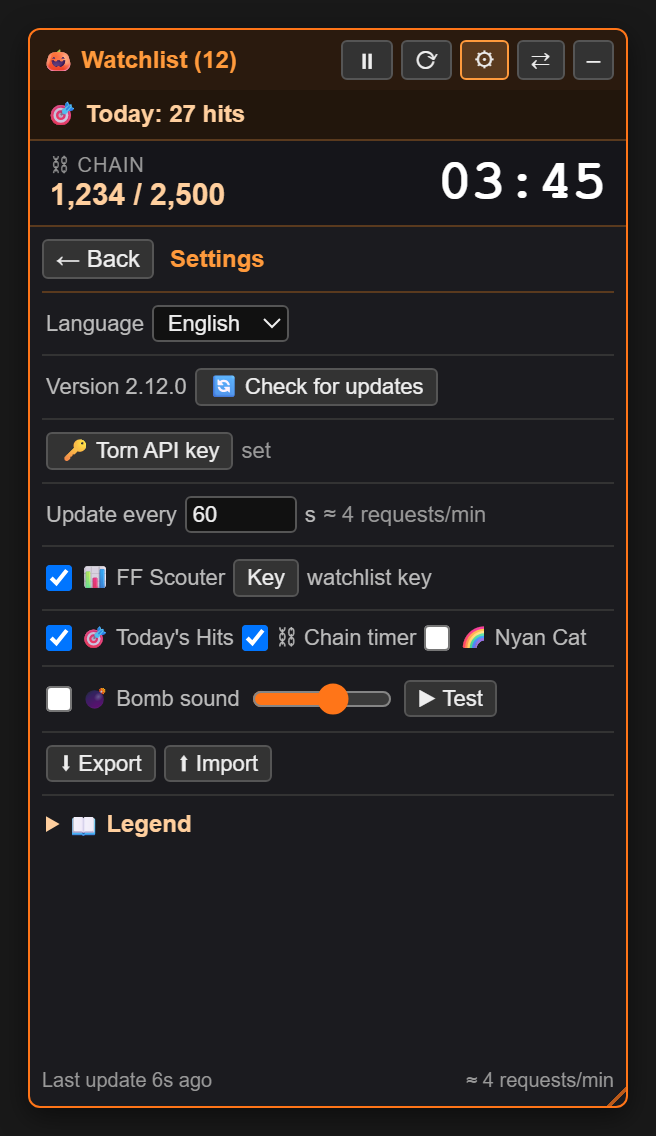
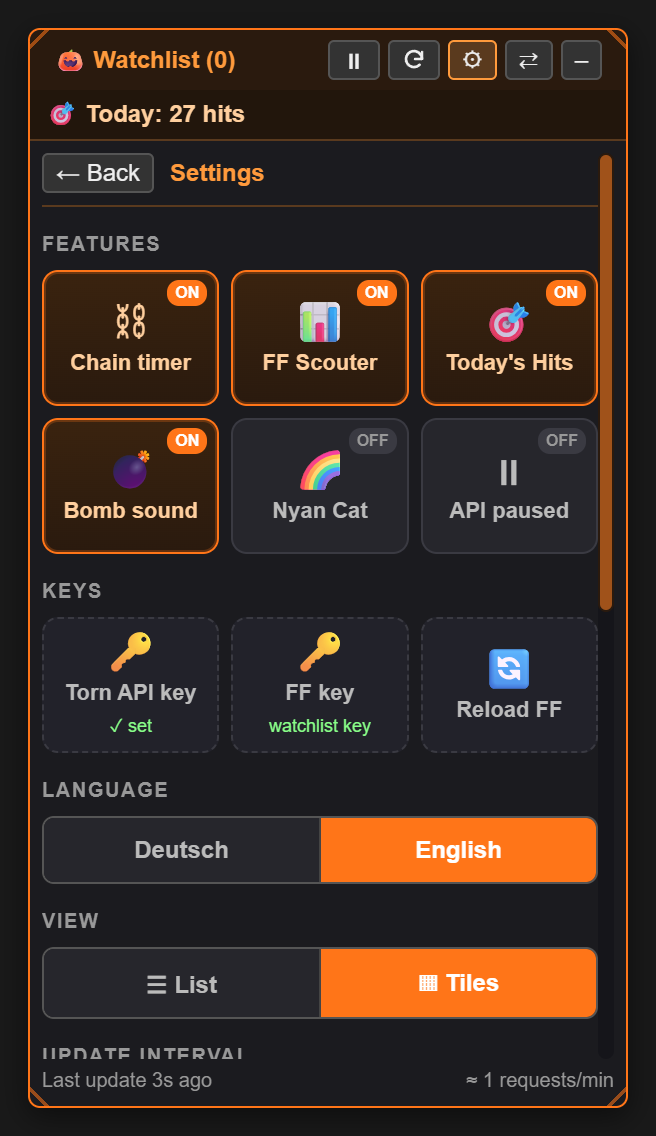
Tile grid settings page on the PC too (2.19.0)
Hover effects and tooltips for mouse users, new settings screenshot.

diff --git a/torn-war-watchlist.user.js b/torn-war-watchlist.user.js
@@ -1,7 +1,7 @@
 // ==UserScript==
 // @name         Torn War Watchlist
 // @namespace    torn-war-watchlist
-// @version      2.18.1
+// @version      2.19.0
 // @description  Ranked war watchlist for Torn: players and whole factions, hospital countdown, last-action colors, FF Scouter, chain timer
 // @author       Provadis
 // @homepageURL  https://github.com/Provadis/torn-war-watchlist
@@ -114,6 +114,11 @@
       tileApiKey: 'Torn API-Key',
       tileFfKey: 'FF-Key',
       tileFfReload: 'FF neu laden',
+      chainTip: 'Chain-Zähler und Timer im Panel, unter 1:30 rot blinkend',
+      ffTip: 'Fair-Fight-Werte von ffscouter.com neben jedem Spieler',
+      hitsTip: 'Leiste mit deinen erfolgreichen Angriffen seit 00:00 TCT',
+      nyanTip: 'Ab und zu läuft Nyan Cat am Rahmen entlang',
+      pauseTip: 'Keine automatischen API-Abfragen, solange an',
       customInterval: (s) => `eigener Wert: ${s} s`,
       version: (v) => `Version ${v}`,
       checkUpdates: '🔄 Nach Updates suchen',
@@ -265,6 +270,11 @@
       tileApiKey: 'Torn API key',
       tileFfKey: 'FF key',
       tileFfReload: 'Reload FF',
+      chainTip: 'Chain count and timer in the panel, blinks red below 1:30',
+      ffTip: 'Fair fight values from ffscouter.com next to every player',
+      hitsTip: 'Strip with your successful attacks since 00:00 TCT',
+      nyanTip: 'Every now and then Nyan Cat runs along the border',
+      pauseTip: 'No automatic API requests while on',
       customInterval: (s) => `custom value: ${s} s`,
       version: (v) => `Version ${v}`,
       checkUpdates: '🔄 Check for updates',
@@ -1063,9 +1073,8 @@
     #twl-nyan-trail { position: fixed; left: 0; top: 0; z-index: 1000000; pointer-events: none; display: none; }
     #twl-nyan-trail .twl-rb { position: absolute; left: 0; top: 0; width: 5px; height: 15px; will-change: transform, opacity;
       background: linear-gradient(#ff0000 0 16.66%, #ff9900 0 33.33%, #ffff00 0 50%, #33ff00 0 66.66%, #0099ff 0 83.33%, #6633ff 0); }
-    /* Touch settings: grid of tiles instead of checkbox rows (desktop keeps the rows) */
-    #twl-panel:not(.twl-touch) .twl-sgrid, #twl-panel:not(.twl-touch) .twl-touch-only,
-    #twl-panel.twl-touch .twl-s-old { display: none; }
+    /* Settings: grid of tiles. The old checkbox rows stay hidden in the page – the tiles drive them */
+    #twl-panel .twl-s-old { display: none; }
     .twl-sec { margin: 12px 0 6px; color: #999; font-size: 10px; text-transform: uppercase; letter-spacing: .8px; font-weight: bold; }
     .twl-tiles { display: grid; grid-template-columns: repeat(3, 1fr); gap: 6px; }
     .twl-tiles.twl-tiles-2 { grid-template-columns: repeat(2, 1fr); }
@@ -1074,6 +1083,11 @@
       align-items: center; justify-content: center; gap: 4px; text-align: center; font: inherit;
       -webkit-tap-highlight-color: transparent; touch-action: manipulation; }
     #twl-panel button.twl-tile:active { transform: scale(.96); }
+    @media (hover: hover) {
+      #twl-panel button.twl-tile:hover:not(:disabled) { border-color: #6a6a74; filter: brightness(1.12); }
+      #twl-panel button.twl-tile.twl-on:hover { border-color: #ff9a3c; }
+      #twl-panel .twl-seg button:not(.twl-on):hover { background: #303038; color: #eee; }
+    }
     #twl-panel button.twl-tile:disabled { opacity: .45; }
     .twl-tile .twl-ic { font-size: 20px; line-height: 1; }
     .twl-tile .twl-lb { font-size: 11px; font-weight: bold; line-height: 1.15; }
@@ -1096,22 +1110,22 @@
       background: #26262c; border: 1px solid #3a3a42; }
     #twl-panel .twl-vol input { flex: 1; min-width: 0; accent-color: #ff7518; }
     #twl-panel .twl-vol button { padding: 6px 10px; font-weight: bold; }
-    #twl-panel.twl-touch .twl-s-ver { display: flex; flex-wrap: wrap; gap: 6px; margin: 0; padding: 0; border: 0; }
-    #twl-panel.twl-touch .twl-s-ver .twl-version, #twl-panel.twl-touch .twl-s-ver .twl-upd-status {
+    #twl-panel .twl-s-ver { display: flex; flex-wrap: wrap; gap: 6px; margin: 0; padding: 0; border: 0; }
+    #twl-panel .twl-s-ver .twl-version, #twl-panel .twl-s-ver .twl-upd-status {
       display: flex; align-items: center; min-height: 40px; padding: 0 12px; border-radius: 8px 0 0 8px;
       background: #26262c; border: 1px solid #3a3a42; border-right: 0; color: #ddd; font-size: 13px; font-weight: bold; }
-    #twl-panel.twl-touch .twl-s-ver .twl-version { flex: 1; }
-    #twl-panel.twl-touch .twl-s-ver .twl-upd-status { order: 1; margin-left: -6px; border-radius: 0 8px 8px 0;
+    #twl-panel .twl-s-ver .twl-version { flex: 1; }
+    #twl-panel .twl-s-ver .twl-upd-status { order: 1; margin-left: -6px; border-radius: 0 8px 8px 0;
       border-left: 0; border-right: 1px solid #3a3a42; font-size: 11px; font-weight: normal; color: #8f8; }
-    #twl-panel.twl-touch .twl-s-ver .twl-upd-status:empty { padding: 0 6px; }
-    #twl-panel.twl-touch .twl-s-ver .twl-upd-status.twl-upd-new { color: #ff9a3c; font-weight: bold; }
-    #twl-panel.twl-touch .twl-s-ver .twl-upd-status.twl-ff-err { color: #ff8080; }
-    #twl-panel.twl-touch .twl-s-ver [data-act="update-check"] { order: 2; flex-basis: 100%; min-height: 40px;
+    #twl-panel .twl-s-ver .twl-upd-status:empty { padding: 0 6px; }
+    #twl-panel .twl-s-ver .twl-upd-status.twl-upd-new { color: #ff9a3c; font-weight: bold; }
+    #twl-panel .twl-s-ver .twl-upd-status.twl-ff-err { color: #ff8080; }
+    #twl-panel .twl-s-ver [data-act="update-check"] { order: 2; flex-basis: 100%; min-height: 40px;
       border-radius: 8px; background: #26262c; border-color: #3a3a42; color: #ffcf9e; font-weight: bold; font-size: 13px; }
-    #twl-panel.twl-touch .twl-legend { margin: 0; padding: 0 12px; border-radius: 8px; background: #1f1f24; border: 1px solid #3a3a42; }
-    #twl-panel.twl-touch .twl-legend summary { padding: 11px 0; }
-    #twl-panel.twl-touch .twl-legend[open] { padding-bottom: 10px; }
-    #twl-panel.twl-touch .twl-spage { padding-bottom: 8px; }
+    #twl-panel .twl-legend { margin: 0; padding: 0 12px; border-radius: 8px; background: #1f1f24; border: 1px solid #3a3a42; }
+    #twl-panel .twl-legend summary { padding: 11px 0; }
+    #twl-panel .twl-legend[open] { padding-bottom: 10px; }
+    #twl-panel .twl-spage { padding-bottom: 8px; }
     /* Header buttons: real refresh icon; on touch the dock button is gone, collapse too when the header P toggles */
     .twl-refresh svg { width: 12px; height: 12px; fill: none; stroke: currentColor; stroke-width: 2.6;
       stroke-linecap: round; stroke-linejoin: round; vertical-align: -2px; }
@@ -1210,18 +1224,18 @@
         <div class="twl-sgrid">
           <div class="twl-sec" data-i18n="secFeatures"></div>
           <div class="twl-tiles">
-            <button type="button" class="twl-tile" data-act="tile" data-for=".twl-chain-toggle"><span class="twl-pill"></span><span class="twl-ic">⛓</span><span class="twl-lb" data-i18n="tileChain"></span></button>
-            <button type="button" class="twl-tile" data-act="tile" data-for=".twl-ff-toggle"><span class="twl-pill"></span><span class="twl-ic">📊</span><span class="twl-lb">FF Scouter</span></button>
-            <button type="button" class="twl-tile" data-act="tile" data-for=".twl-hits-toggle"><span class="twl-pill"></span><span class="twl-ic">🎯</span><span class="twl-lb">Today's Hits</span></button>
-            <button type="button" class="twl-tile" data-act="tile" data-for=".twl-sound-toggle"><span class="twl-pill"></span><span class="twl-ic">💣</span><span class="twl-lb" data-i18n="tileSound"></span></button>
-            <button type="button" class="twl-tile" data-act="tile" data-for=".twl-nyan-toggle"><span class="twl-pill"></span><span class="twl-ic">🌈</span><span class="twl-lb">Nyan Cat</span></button>
-            <button type="button" class="twl-tile" data-act="pause" data-tile="pause"><span class="twl-pill"></span><span class="twl-ic">⏸</span><span class="twl-lb" data-i18n="tilePaused"></span></button>
+            <button type="button" class="twl-tile" data-act="tile" data-for=".twl-chain-toggle" data-i18n-tip="chainTip"><span class="twl-pill"></span><span class="twl-ic">⛓</span><span class="twl-lb" data-i18n="tileChain"></span></button>
+            <button type="button" class="twl-tile" data-act="tile" data-for=".twl-ff-toggle" data-i18n-tip="ffTip"><span class="twl-pill"></span><span class="twl-ic">📊</span><span class="twl-lb">FF Scouter</span></button>
+            <button type="button" class="twl-tile" data-act="tile" data-for=".twl-hits-toggle" data-i18n-tip="hitsTip"><span class="twl-pill"></span><span class="twl-ic">🎯</span><span class="twl-lb">Today's Hits</span></button>
+            <button type="button" class="twl-tile" data-act="tile" data-for=".twl-sound-toggle" data-i18n-tip="soundTitle"><span class="twl-pill"></span><span class="twl-ic">💣</span><span class="twl-lb" data-i18n="tileSound"></span></button>
+            <button type="button" class="twl-tile" data-act="tile" data-for=".twl-nyan-toggle" data-i18n-tip="nyanTip"><span class="twl-pill"></span><span class="twl-ic">🌈</span><span class="twl-lb">Nyan Cat</span></button>
+            <button type="button" class="twl-tile" data-act="pause" data-tile="pause" data-i18n-tip="pauseTip"><span class="twl-pill"></span><span class="twl-ic">⏸</span><span class="twl-lb" data-i18n="tilePaused"></span></button>
           </div>
           <div class="twl-sec" data-i18n="secKeys"></div>
           <div class="twl-tiles">
-            <button type="button" class="twl-tile twl-act" data-act="key"><span class="twl-ic">🔑</span><span class="twl-lb" data-i18n="tileApiKey"></span><span class="twl-sub twl-g-key"></span></button>
-            <button type="button" class="twl-tile twl-act" data-act="ff-key"><span class="twl-ic">🔑</span><span class="twl-lb" data-i18n="tileFfKey"></span><span class="twl-sub twl-g-ffkey"></span></button>
-            <button type="button" class="twl-tile twl-act twl-g-ffreload" data-act="ff-reload"><span class="twl-ic">🔄</span><span class="twl-lb" data-i18n="tileFfReload"></span></button>
+            <button type="button" class="twl-tile twl-act" data-act="key" data-i18n-tip="apiKeyTitle"><span class="twl-ic">🔑</span><span class="twl-lb" data-i18n="tileApiKey"></span><span class="twl-sub twl-g-key"></span></button>
+            <button type="button" class="twl-tile twl-act" data-act="ff-key" data-i18n-tip="ffKeyTitle"><span class="twl-ic">🔑</span><span class="twl-lb" data-i18n="tileFfKey"></span><span class="twl-sub twl-g-ffkey"></span></button>
+            <button type="button" class="twl-tile twl-act twl-g-ffreload" data-act="ff-reload" data-i18n-tip="ffReloadTitle"><span class="twl-ic">🔄</span><span class="twl-lb" data-i18n="tileFfReload"></span></button>
           </div>
           <div class="twl-sec" data-i18n="language"></div>
           <div class="twl-seg">
@@ -1244,8 +1258,8 @@
           </div>
           <div class="twl-sec" data-i18n="secData"></div>
           <div class="twl-tiles twl-tiles-2">
-            <button type="button" class="twl-tile twl-act" data-act="export"><span class="twl-ic">⬇</span><span class="twl-lb">Export</span></button>
-            <button type="button" class="twl-tile twl-act" data-act="import"><span class="twl-ic">⬆</span><span class="twl-lb">Import</span></button>
+            <button type="button" class="twl-tile twl-act" data-act="export" data-i18n-tip="exportTitle"><span class="twl-ic">⬇</span><span class="twl-lb">Export</span></button>
+            <button type="button" class="twl-tile twl-act" data-act="import" data-i18n-tip="importTitle"><span class="twl-ic">⬆</span><span class="twl-lb">Import</span></button>
           </div>
           <div class="twl-sec">Version</div>
         </div>
@@ -1290,7 +1304,7 @@
           <button data-act="import" data-i18n-title="importTitle">⬆ Import</button>
           <input type="file" accept=".json,application/json" class="twl-import-input" hidden />
         </div>
-        <div class="twl-sec twl-touch-only" data-i18n="secHelp"></div>
+        <div class="twl-sec" data-i18n="secHelp"></div>
         <details class="twl-legend">
           <summary data-i18n="legend"></summary>
           <div class="twl-legend-body"></div>
@@ -1307,7 +1321,7 @@
   const $ = (sel) => panel.querySelector(sel);
   // Touch screen (iPhone, iPad, Android): bigger handles, "P" square instead of a collapsed panel
   const IS_TOUCH = window.matchMedia('(pointer: coarse)').matches;
-  panel.classList.toggle('twl-touch', IS_TOUCH); // settings as a grid of tiles
+  panel.classList.toggle('twl-touch', IS_TOUCH); // touch layout of the header buttons
   // Header mode (touch only): a "P" button right after the ☰ menu in Torn's header, and the panel
   // sits inline below the header instead of floating. Without a spot in the header, the floating
   // "P" square stays in use.
@@ -2066,6 +2080,7 @@
   function applyLang() {
     for (const el of panel.querySelectorAll('[data-i18n]')) el.textContent = t(el.dataset.i18n);
     for (const el of panel.querySelectorAll('[data-i18n-title]')) el.title = t(el.dataset.i18nTitle);
+    if (!IS_TOUCH) for (const el of panel.querySelectorAll('[data-i18n-tip]')) el.title = t(el.dataset.i18nTip);
     langSelect.value = getLang();
     $('.twl-version').textContent = t('version', SCRIPT_VERSION);
     $('[data-act="update-check"]').style.display = UPDATE_URL ? '' : 'none';
@@ -2739,7 +2754,6 @@
     volInput.dispatchEvent(new Event('input'));
   });
   function syncGrid() {
-    if (!IS_TOUCH) return;
     const setOn = (tile, on) => {
       tile.classList.toggle('twl-on', on);
       const pill = tile.querySelector('.twl-pill');

diff --git a/README.md b/README.md
@@ -4,7 +4,7 @@
 
 **Keep an eye on your ranked war targets: who is online, who is in hospital, how strong they are and how much time the chain has left – all in one small panel right inside Torn.**
 
-[![Version](https://img.shields.io/badge/version-2.18.1-ff7518?style=for-the-badge)](https://raw.githubusercontent.com/Provadis/torn-war-watchlist/main/torn-war-watchlist.user.js)
+[![Version](https://img.shields.io/badge/version-2.19.0-ff7518?style=for-the-badge)](https://raw.githubusercontent.com/Provadis/torn-war-watchlist/main/torn-war-watchlist.user.js)
 [![Tampermonkey](https://img.shields.io/badge/Tampermonkey-Userscript-00485B?style=for-the-badge&logo=tampermonkey&logoColor=white)](https://www.tampermonkey.net/)
 [![Language](https://img.shields.io/badge/UI-EN%20%7C%20DE-1b1b1f?style=for-the-badge)](#-settings--language)
 [![License](https://img.shields.io/badge/license-MIT-2ea44f?style=for-the-badge)](LICENSE)
@@ -97,7 +97,7 @@ Counts your **successful attacks since 00:00 TCT**. This needs a key with Limite
 Everything is saved and shared across all Torn tabs.
 
 ### ⚙ Settings & language
-All options live on their own settings page behind **⚙**. The UI is available in **English and German** and switches instantly, without a reload. At the bottom of the settings page there is a **legend** explaining every marker.
+All options live on their own settings page behind **⚙**, laid out as a grid: on/off options are tiles you click or tap (orange = on, grey = off), keys and data are dashed tiles, and language, view and update interval are switch bars. Hover a tile on the PC for a short explanation. The UI is available in **English and German** and switches instantly, without a reload. At the bottom of the settings page there is a **legend** explaining every marker.
 
 <p align="center">
   <img src="docs/images/settings.png" width="300" alt="Settings page">
@@ -129,7 +129,7 @@ Works with [Tampermonkey for Safari](https://apps.apple.com/app/tampermonkey/id6
 
 On touch screens the resize corners are bigger and the war list buttons are always visible. In Torn's mobile header a small orange **P** button sits right after the ☰ menu. While a chain runs, a timer badge appears next to it (e.g. **⛓ 03:45**, just **03:45** if space is tight) and blinks red below 1:30. Torn's mobile chain bar has no timer, so on touch screens the timer comes from the Torn API – every 6 seconds while a chain runs, and not at all otherwise (plus one request on page load and whenever the chain count changes). Tapping it opens the watchlist right below Torn's header in full screen height – the rest of Torn moves down underneath; tap again (or –) to close it. If the header layout isn't recognized, the panel falls back to a floating **P** square you can tap and drag.
 
-The ⚙ settings page is touch-friendly too: every on/off option is a big tile you tap (orange = on, grey = off), keys and data are dashed tiles, and language and update interval are tap bars (15 s – 5 min). Under **View** you can switch the list to big **tiles** (2 columns, with the last action on each tile): tap a tile to open the profile, long-press it for attack, profile, copy and remove.
+The tile-based ⚙ settings page is made for fingers too. Under **View** you can switch the list to big **tiles** (2 columns, with the last action on each tile): tap a tile to open the profile, long-press it for attack, profile, copy and remove.
 
 ### Updates
 - **Automatic:** Tampermonkey checks for new versions on its own, once a day by default. You can change the interval under *Tampermonkey → Settings → Script update check interval*.
@@ -252,6 +252,7 @@ The script restores its browser backup automatically. If something is still miss
 
 | Version | What's new |
 |---|---|
+| **2.19.0** | The tile grid settings page now on the PC too (with hover effects and tooltips); new settings screenshot |
 | **2.18.1** | iPhone: the panel below the header ends at the bottom of the screen (no longer hidden behind Safari's address bar); no pause button in the header on touch screens (it is a tile in ⚙) |
 | **2.18.0** | New view setting: list or 2-column tiles (tap = profile, long press = attack / profile / copy / remove). Refresh button with a real icon; on touch screens bigger ⚙ and refresh buttons, no dock button and no – while the header P toggles the panel |
 | **2.17.0** | Touch settings as a grid: on/off tiles (orange = on), key tiles, tap bars for language and update interval; volume only shows while the bomb sound is on. Desktop keeps the classic rows |
